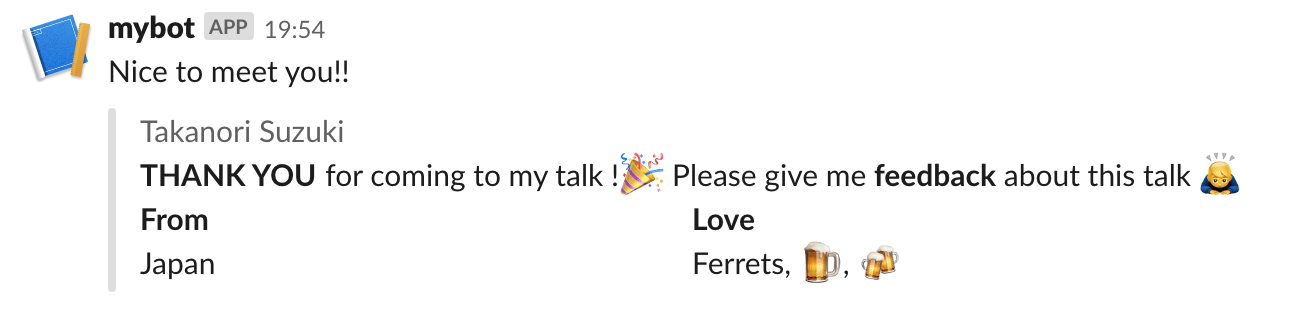
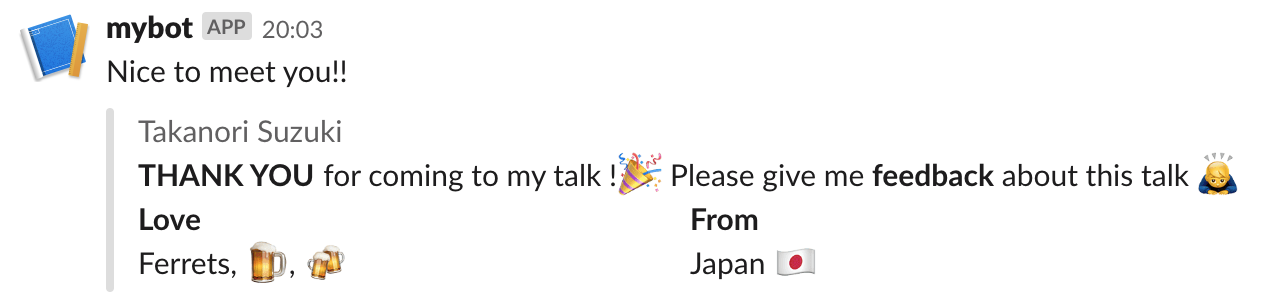
update slide

diff --git a/20190224pyconapac/PITCHME.md b/20190224pyconapac/PITCHME.md
@@ -173,16 +173,15 @@ Note:
 ### Complex message with Requests
 
 ```python
-data = json.dumps({
-    'attachments': [{
-        'pretext': 'Nice to meet you!!',
-        'author_name': 'Takanori Suzuki',
-        'author_link': 'https://twitter.com/takanory/',
-        'text': '*THANK YOU* for coming to my talk !:tada: Please give me *feedback* about this talk :bow:',
-        'fields': [{'title': 'From', 'value': 'Japan', 'short': True},
-                   {'title': 'Love', 'value': 'Ferrets, :beer:, :beers:', 'short': True}]
-    }]
-})
+fiels = [{'title': 'Love', 'value': 'Ferrets, :beer:, :beers:', 'short': True},
+         {'title': 'From', 'value': 'Japan :jp:', 'short': True}]
+data = json.dumps({'attachments': [{
+    'pretext': 'Nice to meet you!!',
+    'author_name': 'Takanori Suzuki',
+    'author_link': 'https://twitter.com/takanory/',
+    'text': '*THANK YOU* for coming to my talk !:tada: Please give me *feedback* about this talk :bow:',
+    'fields': fiels,
+}]})
 ```
 
 ![Message Attachments](20190224pyconapac/images/webhook-attachments.png)
